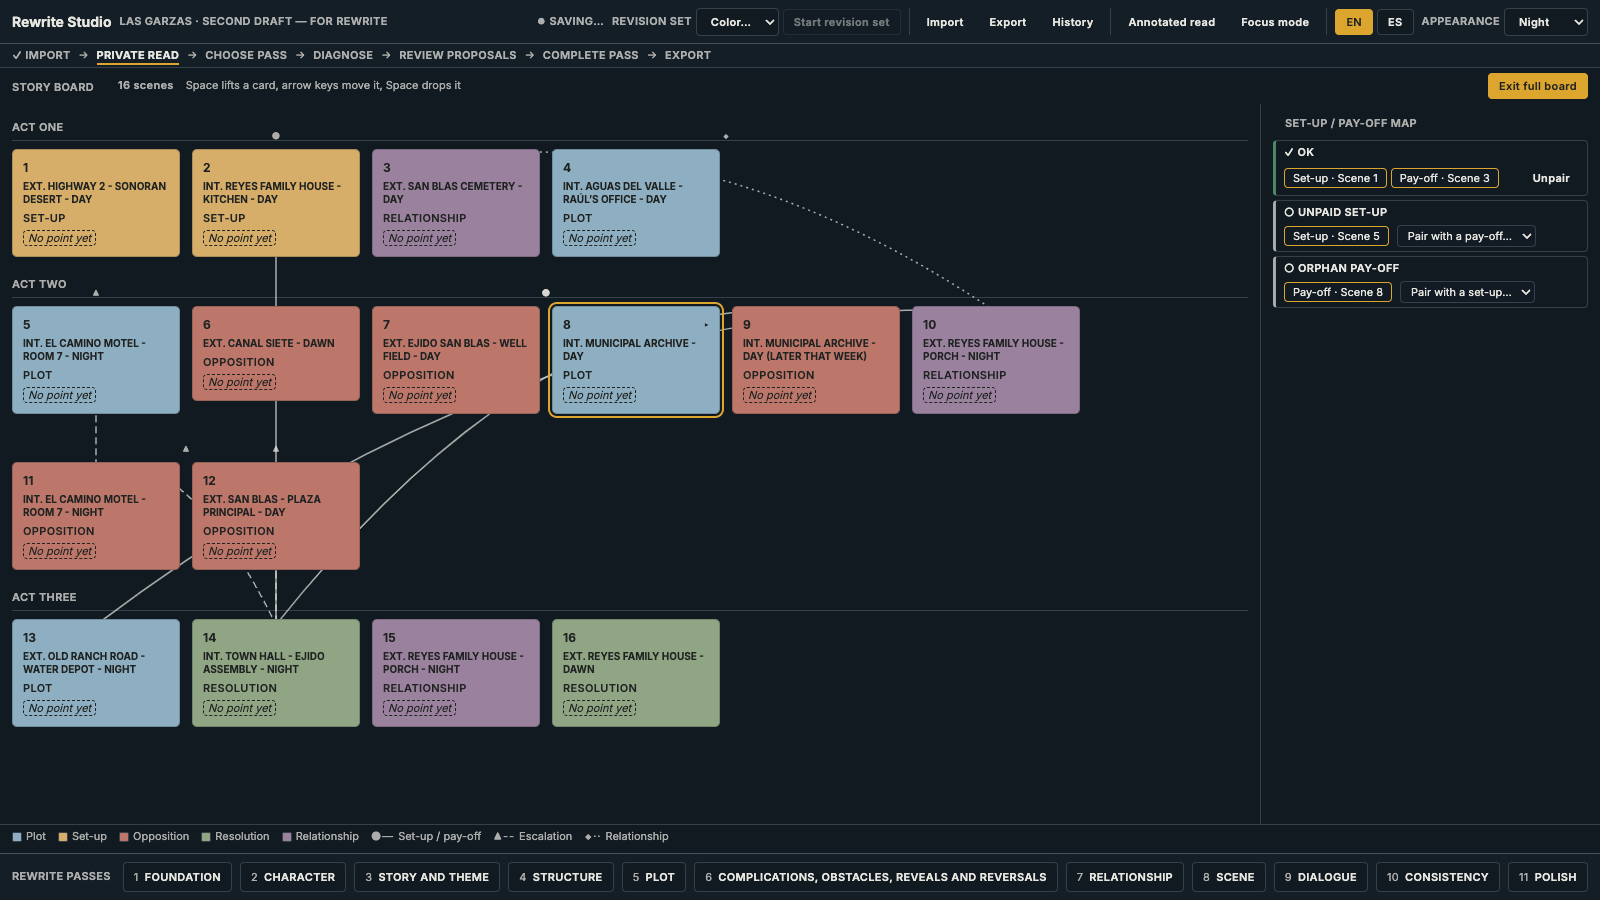
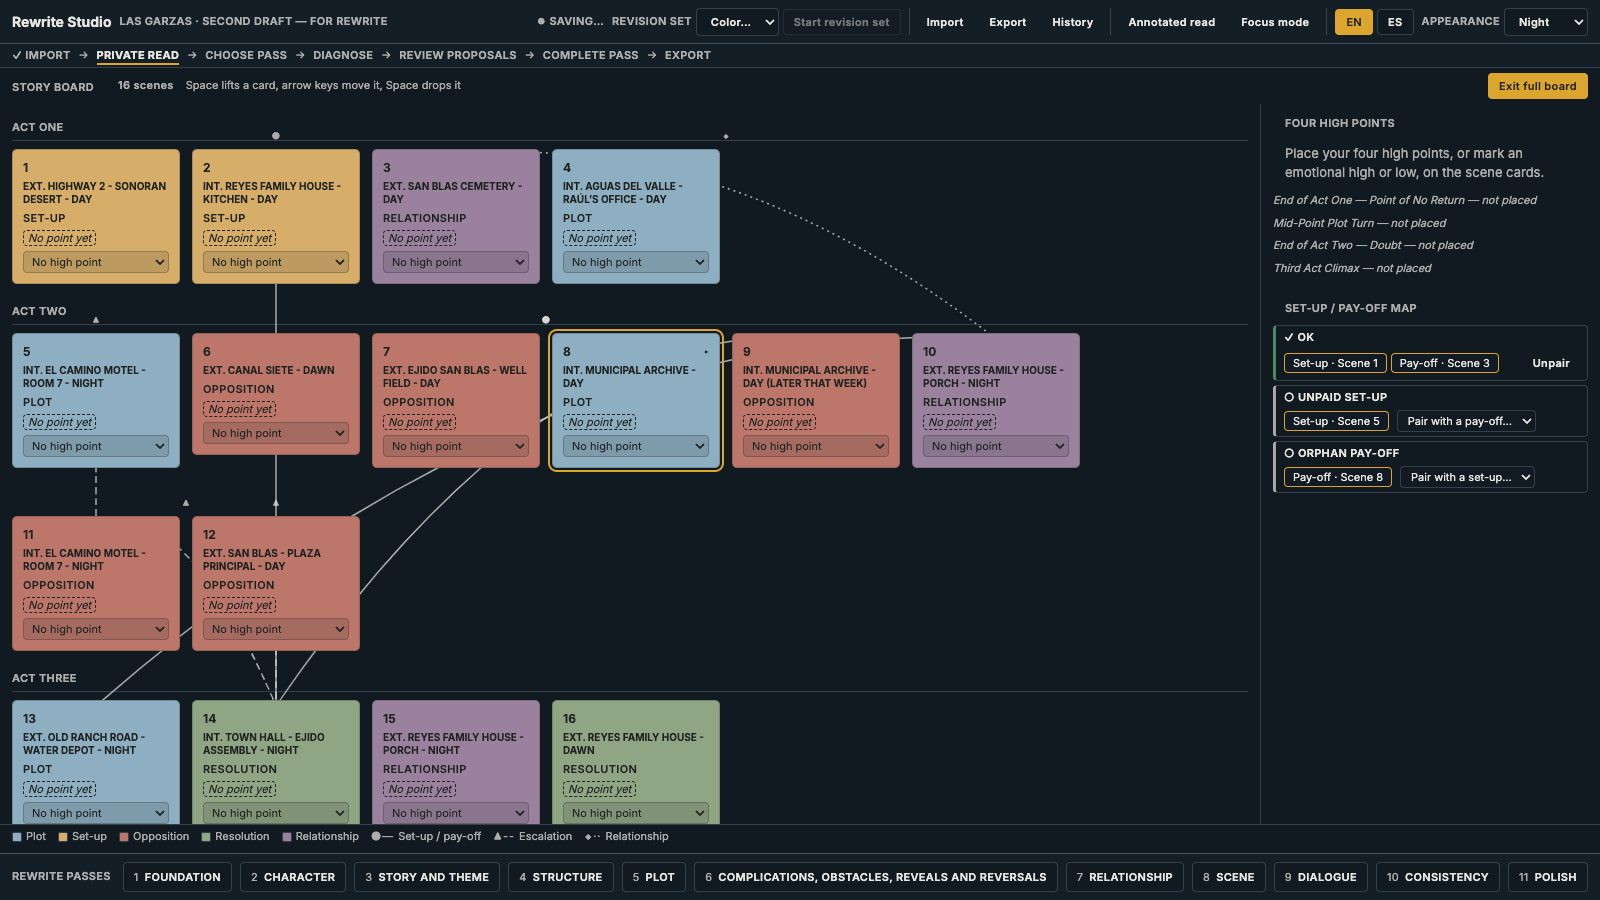
epps M4-M7 proof: full proof pack (01-08b), README, handoff
Proof shots for M4 (high points + momentum), M5 (pass-workspace integration),
M6 (Polish Read + export readiness), M7 (TV adapter import + badge). Handoff
records the whole methodology phase state: 339 unit / 57 Playwright / build 0.

Changed region(s): [[0.0, 0.28, 0.6875, 0.9333], [0.7812, 0.1244, 1.0, 0.56]]

diff --git a/docs/HANDOFF.md b/docs/HANDOFF.md
@@ -8,6 +8,16 @@ Billy approved `docs/plans/2026-07-12-epps-methodology-phase.md` (M1–M7) with 
 
 **M2R (direct in-card Scene Point editing) is built, committed (`epps M2R:` + `epps M2R2:`), and proven.** Billy REJECTED the first popover version ("too indirect, opens behind cards") — his standing product principle, verbatim: **"Act on the object itself first. Panels are for deeper detail."** The accepted version: the dotted "No point yet" chip itself becomes an editable textarea inside the card (card grows; Enter saves / Escape cancels / blur saves; focus returns to the chip; tests assert NO popover/dialog renders). Verdict editing stays in the inspector; cards mirror it with UNSURE / CUT CANDIDATE word markers. Card structure: frame div (`data-card-frame`, used by connections + drag tests) holding the main select/drag button (`data-scene-card`) plus the chip/editor — nested buttons fail axe. Counts after M2R2: **273 unit / 53 Playwright / build exit 0**. Proof: `docs/proof/epps/02c-02d`. Carry the act-on-the-object principle into M3+ (mark set-ups/payoffs from the line/card, not only a panel) — and never introduce floating popovers on the board.
 
+**Epps methodology phase M4–M7 are built, committed, and proven** (2026-07-13, Billy authorized building through M7 without per-slice stops):
+- **M4** (`epps M4:`) Four High Points + momentum, placed on the scene card (full board), navigator flags, analyzer structure-gap questions in the book's voice.
+- **M5** (`epps M5:`) methodology tools surfaced inside their matching pass workspaces (Plot set-up/pay-off statuses, Structure high points, Story & Theme theme+motifs), WRITER-sourced, no dead UI.
+- **M6** (`epps M6:`) Polish Read cover-to-cover page walk + doubled-word analyzer check + advisory Export-readiness checklist.
+- **M7** (`epps M7:`) TV pilot adapter as a Studio Extension: `Screenplay.docFormat`, EXT format picker at import, EXT top-bar badge, format-aware act-balance + pilot act-out vocabulary.
+
+**State after M7: 339 unit / 57 Playwright / build exit 0.** Full proof pack in `docs/proof/epps/` (shots 01–08b), regenerate with `node scripts/proof-epps.mjs`. Deferred (no dead UI): A/B/C stories, season arcs, teaser/act-out as real scene types, conflict/relationship maps, PDF import, real-Final-Draft FDX validation, docFormat round-trip into Fountain/FDX files (it persists locally via the document store). New methodology model files: `src/model/{gameplan,scenepoint,markers}.ts`; panels `GamePlanPanel`, `ScenePointCard`, `StructureView`, `PassToolSection`, `PolishReadBar`, `ExtChip`.
+
+---
+
 **M3 (Set-Up / Pay-off map) is built, committed (`epps M3:`), and proven.** Marking is on the object: the selected line's status bar has Set-up / Pay-off toggles (`src/model/markers.ts` StoryBeat + pure `setupPayoffRows` → ok/late_setup/unpaid_setup/orphan_payoff by element position; store `setStoryBeat`/`pairBeats`/`unpairBeat`; additive persistence). Full-board `StructureView` renders the map: word+glyph statuses, refs that jump to the exact line, native `<select>` pairing (no popover). Analyzer Plot lens gained repeated-information (cites both near-identical lines). Counts after M3: **297 unit / 54 Playwright / build exit 0**. Proof: `docs/proof/epps/03*`. Note for M4: `StructureView` is the full-board home for high points + momentum strip (the plan already routes them there).
 
 **Next action: WAIT for Billy's verdict on M3, then execute M4 (Four High Points + momentum) per the plan. Do not start M4 unprompted.**

diff --git a/docs/proof/epps/README.md b/docs/proof/epps/README.md
@@ -61,4 +61,29 @@ Repeated-information (near-identical lines cited at both occurrences) runs in
 the Plot pass and is covered by unit tests; the sample has no duplicate line
 to screenshot.
 
-Later slices (M4–M7) append shots 04–08 here.
+## M4 — Four High Points + momentum (2026-07-13)
+
+`04-high-points-momentum.png` — full board: each card carries a High point
+select (act on the object); placed points show word flags (MID-POINT, ACT II
+END, HIGH, LOW). The Four High Points checklist shows placed vs not-placed;
+the Momentum strip reads the emotional roller-coaster per act.
+
+## M5 — pass-workspace integration (2026-07-13)
+
+`05-pass-workspace-integration.png` — the Structure pass workspace with a
+WRITER-sourced High Points section (placed jump, missing named), visibly
+separate from AI findings; the navigator flags structural points.
+
+## M6 — Polish Read + export readiness (2026-07-13)
+
+`06-polish-read.png` — the cover-to-cover Polish Read walking the pages with the
+book's polish objectives in view. `07-export-readiness.png` — the Export menu's
+advisory readiness checklist (pages read, priority concerns, unpaid set-ups);
+export stays available.
+
+## M7 — TV pilot adapter, Studio Extension (2026-07-13)
+
+`08-tv-adapter-import.png` — the import Format picker (EXT) set to a one-hour
+pilot. `08b-tv-adapter-badge.png` — after import the top bar shows the
+"One-hour pilot" badge with its EXT chip, and structure diagnosis uses pilot
+act-out vocabulary. Feature is the default and shows no badge.
